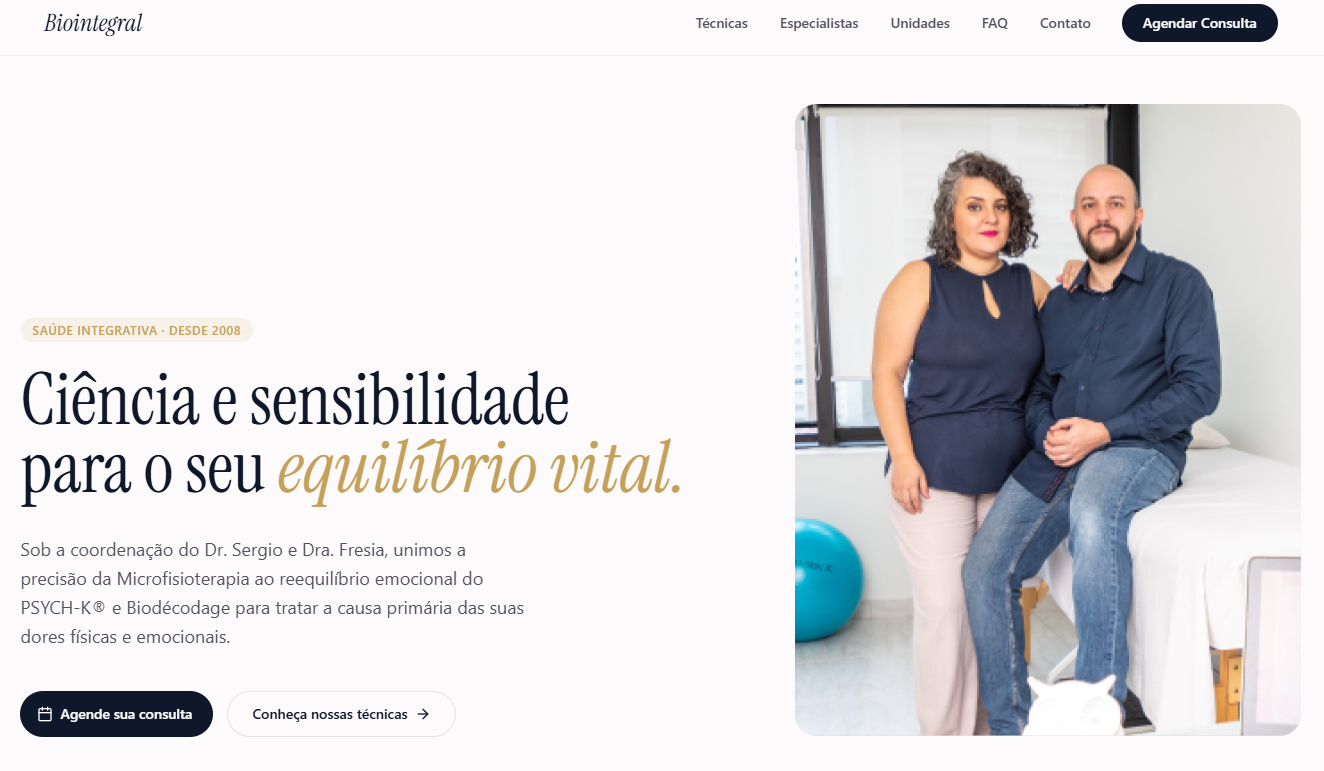
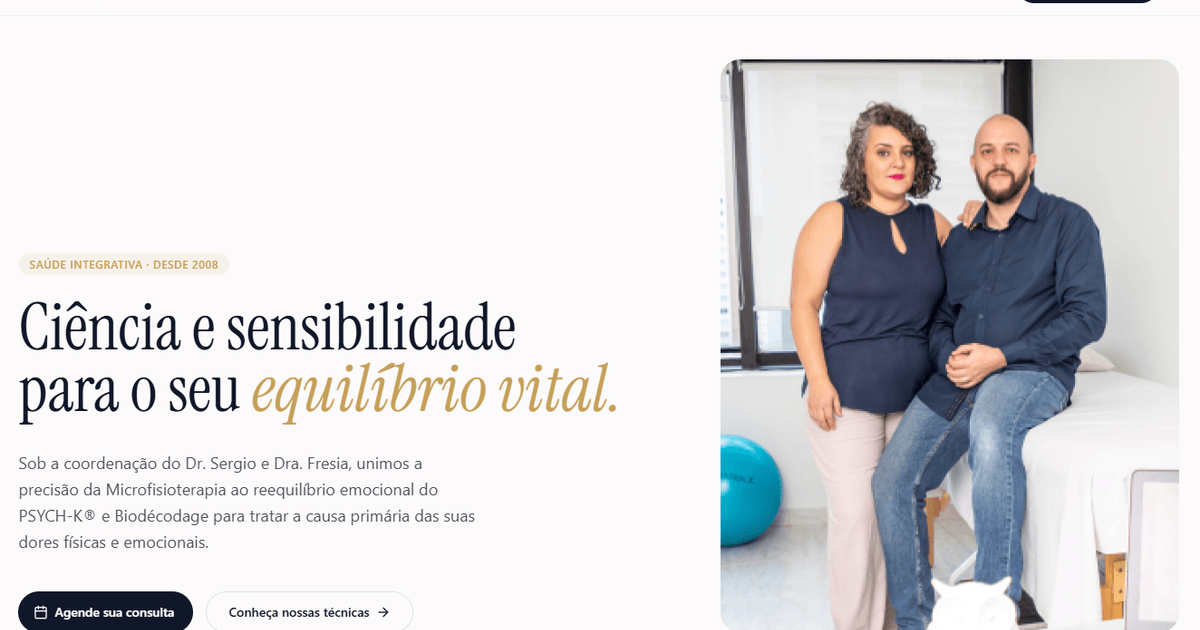
satisfacao 2

diff --git a/app/layout.tsx b/app/layout.tsx
@@ -34,7 +34,7 @@ export const metadata: Metadata = {
     template: "%s · Biointegral Saúde",
   },
   description:
-    "Clínica de fisioterapia integrativa em São Paulo e ABC Paulista. Pioneiros em Microfisioterapia, PSYCH-K® e Biodécodage com Dr. Sergio e Dra. Fresia.",
+    "Clínica de fisioterapia integrativa em São Paulo e ABC. Microfisioterapia, PSYCH-K® e Biodécodage com Dr. Sergio e Dra. Fresia.",
   keywords: SEO_KEYWORDS,
   authors: [{ name: SEO_SITE_NAME, url: SEO_BASE_URL }],
   creator: SEO_SITE_NAME,
@@ -50,7 +50,7 @@ export const metadata: Metadata = {
     ...rootOpenGraph,
     title: "Biointegral Saúde — Fisioterapia Integrativa em São Paulo",
     description:
-      "Trate a causa primária das suas dores. Pioneiros em Microfisioterapia, PSYCH-K® e Biodécodage.",
+      "Trate a causa das suas dores. Microfisioterapia, PSYCH-K® e Biodécodage em São Paulo e ABC.",
   },
   twitter: {
     card: "summary_large_image",

diff --git a/components/sections/HeroSection.tsx b/components/sections/HeroSection.tsx
@@ -16,10 +16,10 @@ export function HeroSection() {
             <span className="italic text-gold">equilíbrio vital.</span>
           </h1>
           <p className="text-lg text-zinc-600 max-w-[52ch] text-pretty mb-10 leading-relaxed">
-            Sob a coordenação do Dr. Sergio e Dra. Fresia, unimos a precisão da
-            Microfisioterapia ao reequilíbrio emocional do PSYCH-K® e
-            Biodécodage para tratar a causa primária das suas dores físicas e
-            emocionais.
+            Com ciência e sensibilidade, sob a coordenação do Dr. Sergio e Dra.
+            Fresia, unimos a precisão da Microfisioterapia ao reequilíbrio
+            emocional do PSYCH-K® e Biodécodage para tratar a causa primária das
+            suas dores físicas e emocionais.
           </p>
           <div className="flex flex-wrap gap-4">
             <WhatsAppButton>Agende sua consulta</WhatsAppButton>

diff --git a/app/page.tsx b/app/page.tsx
@@ -13,8 +13,8 @@ import { pageMetadata } from "@/lib/metadata";
 
 export const metadata: Metadata = pageMetadata({
   title: "Microfisioterapia, PSYCH-K® e Biodécodage",
-  description:
-    "Trate a causa primária das suas dores. Clínica pioneira no Brasil em Microfisioterapia, PSYCH-K® e Biodécodage. Atendimento em São Paulo e Santo André.",
+    description:
+      "Trate a causa das suas dores. Microfisioterapia, PSYCH-K® e Biodécodage em São Paulo e Santo André.",
   path: "/",
   ogTitle: "Biointegral Saúde — Fisioterapia Integrativa",
 });
